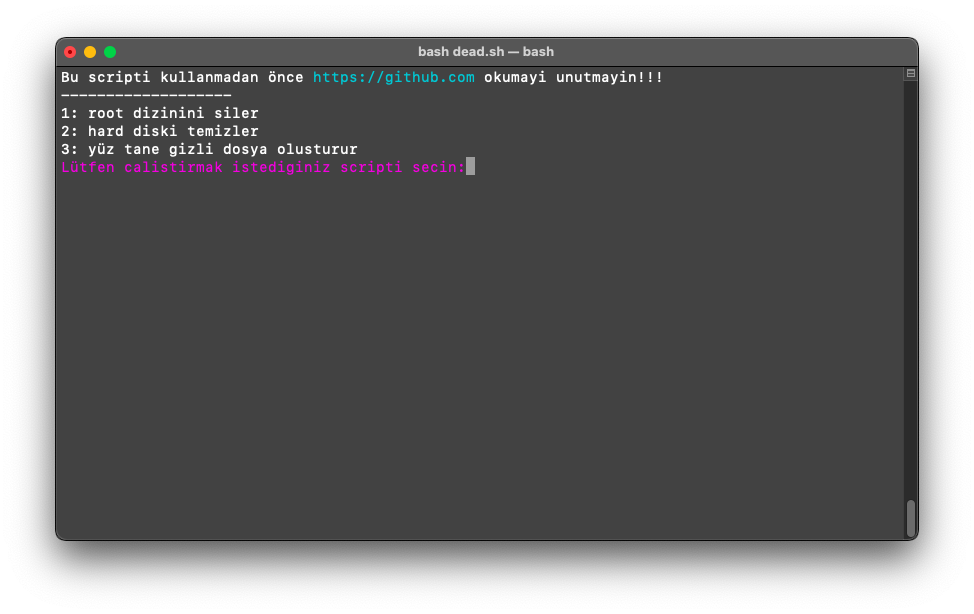
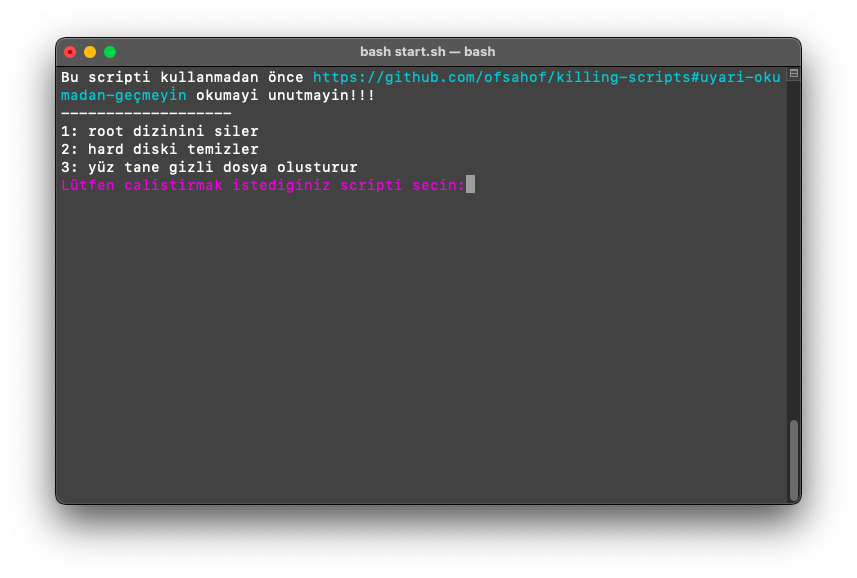
docs: bu nasıl üslup Ömer

Changed region(s): [[0.0303, 0.0311, 0.9708, 0.9031]]

diff --git a/README.md b/README.md
@@ -4,5 +4,6 @@
 
 ## UYARI (OKUMADAN GEÇMEYİN)
 
-Bu scriptler tamamen `eğitim` amaçlı yapılmış olup herhangi bir teşvik yoktur.
-Bu scriptlerin amacı bilgisayarı bozmaktır o yüzden **çalıştırmayın.** Oluşacak hasarlardan kullanıcı sorumludur.
+Bu scriptler tamamen `eğitim` ve `goygoy` amaçlı yapılmıştır.
+Bu scriptlerin amacı bilgisayara yazılımsal hasar vermektir. Test ortamınız dışında **çalıştırmanızı önermiyoruz.** Oluşacak hasarlardan siz çılgın kullanıcılar sorumludur.
+
